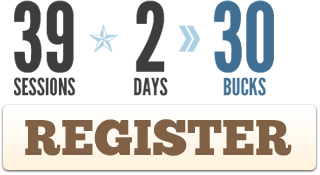
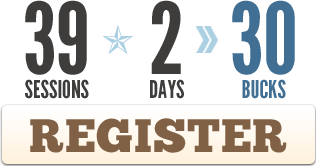
positioning and graphics updates

diff --git a/sites/all/themes/drupalcampaustin/styles/style.css b/sites/all/themes/drupalcampaustin/styles/style.css
@@ -256,6 +256,7 @@ body {
           text-indent: -99999em;
           top: 65px;
           left: 10px;
+          z-index: 10;
           }
 
         #header {
@@ -307,13 +308,14 @@ body {
               }
 
           #header-ribbon {
-            position:absolute;
-            top: 65px;
-            left: 0px;
+            text-align: center;
+            padding: 10px;
+            margin-top: 48px;
+            background-color: rgba(255,255,255,0.5);
+            border-radius: 10px;
+              -moz-border-radius: 10px;
+              -webkit-border-radius: 10px;
             }
-            #header-ribbon img.steps {
-              margin-bottom: 20px;
-              }
               
     #main-wrapper {
       min-height: 600px;

diff --git a/sites/all/themes/drupalcampaustin/templates/page-front.tpl.php b/sites/all/themes/drupalcampaustin/templates/page-front.tpl.php
@@ -36,7 +36,7 @@
           <a id="logo" href="<?php print $front_page; ?>" title="DrupalCamp Austin" rel="home nofollow">DrupalCamp Austin</a>
         </div> <!-- /#logo -->
 
-        <div id="header" class="prefix-8 grid-8 clearfix">
+        <div id="header" class="grid-7 prefix-9 omega">
           <?php print $header; ?>
         </div> <!-- /#header -->
         

diff --git a/sites/all/themes/drupalcampaustin/templates/page.tpl.php b/sites/all/themes/drupalcampaustin/templates/page.tpl.php
@@ -35,7 +35,7 @@
           <a id="logo" href="<?php print $front_page; ?>" title="DrupalCamp Austin" rel="home nofollow">DrupalCamp Austin</a>
         </div> <!-- /#logo -->
 
-        <div id="header" class="prefix-8 grid-8 clearfix">
+        <div id="header" class="grid-7 prefix-9 omega">
           <?php print $header; ?>
         </div> <!-- /#header -->
         
